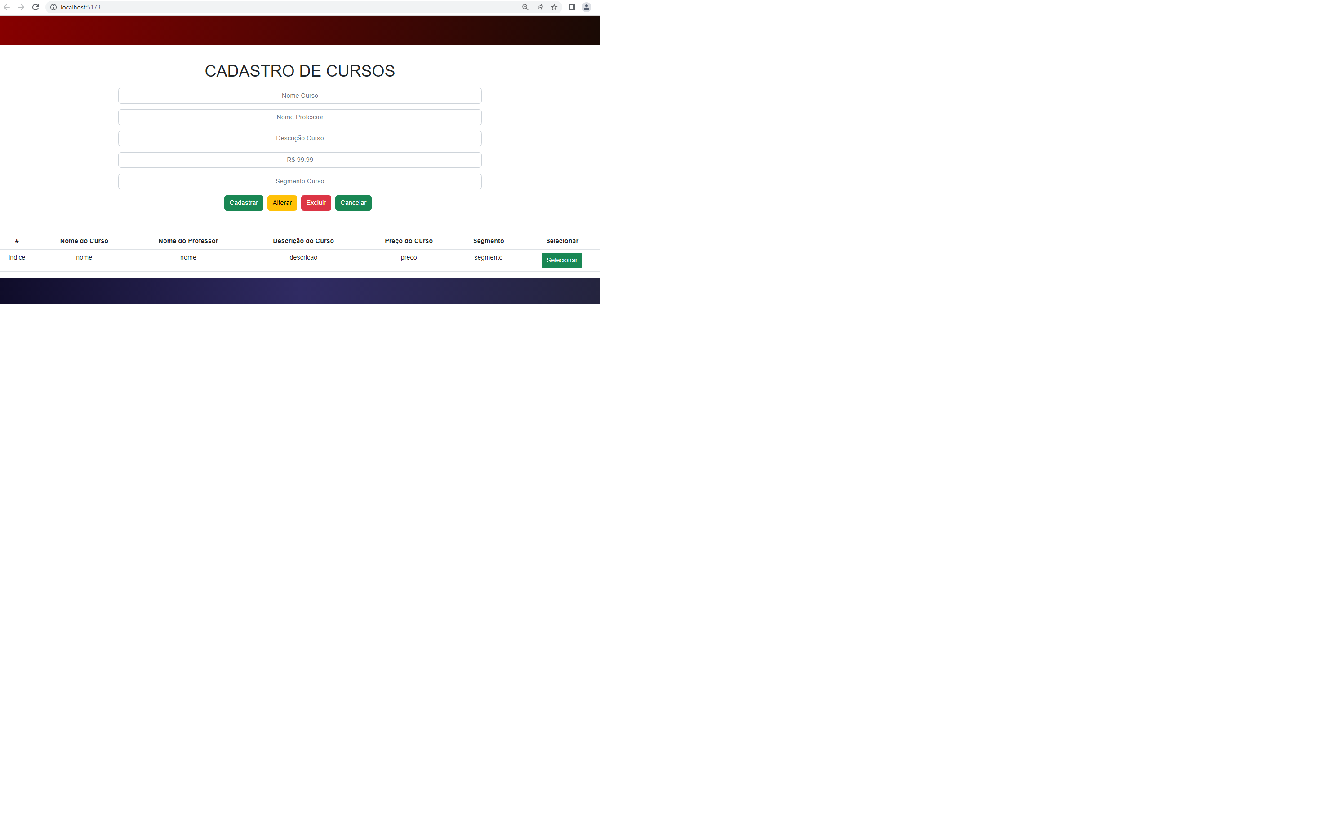
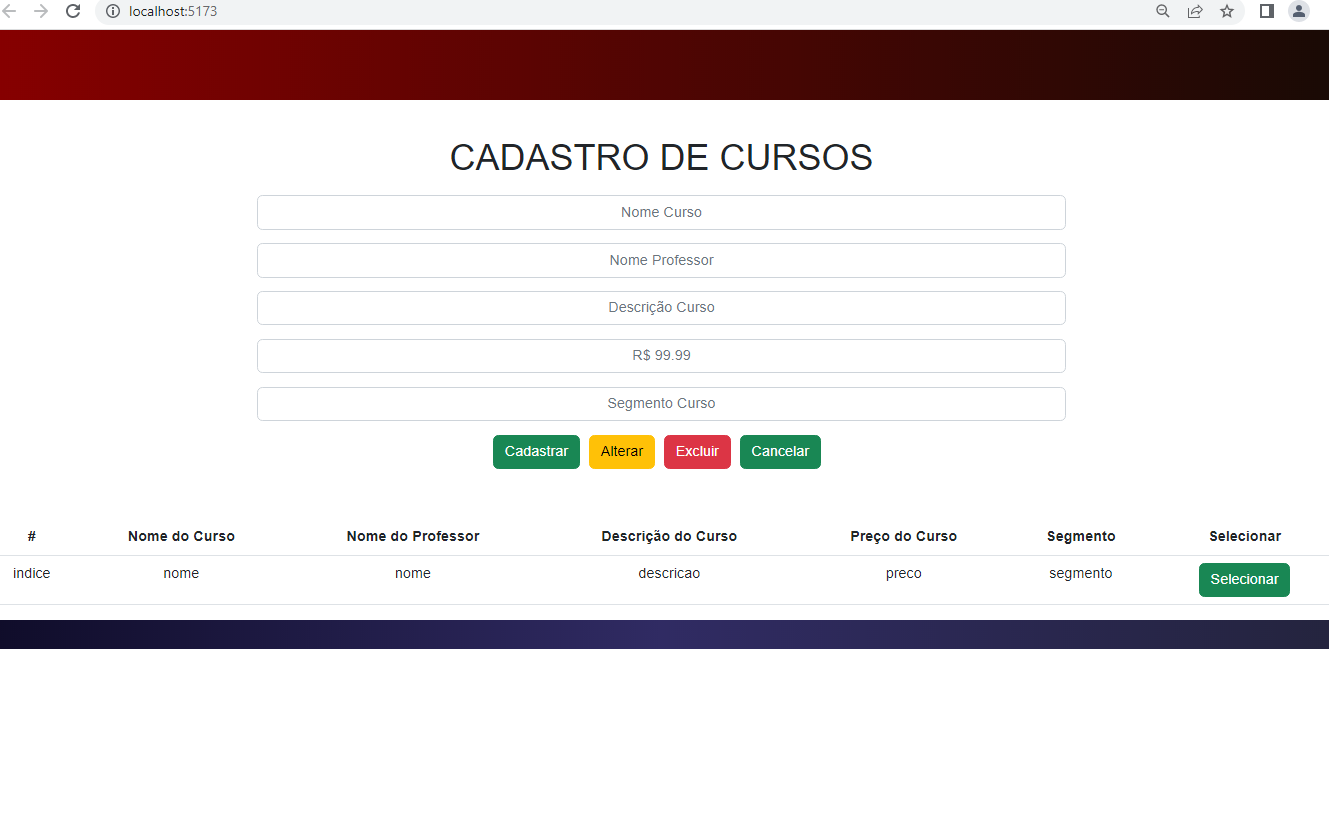
Atualizando projeto

diff --git a/ProjetosFullStack/desafio-certificado/frontenddesafio/src/component/Formalario.jsx b/ProjetosFullStack/desafio-certificado/frontenddesafio/src/component/Formalario.jsx
@@ -1,6 +1,6 @@
 import './Components.css';
 
-export default()=>{
+export default({botao})=>{
     return(
         <form>
             <h1>CADASTRO DE CURSOS</h1>    
@@ -10,10 +10,24 @@ export default()=>{
             <input type="text" name="" id="" placeholder="R$ 99.99" className="form-control"/>
             <input type="text" name="" id="" placeholder="Segmento Curso" className="form-control"/>
 
-            <input type="button" value="Cadastrar" className='btn btn-success'/>
-            <input type="button" value="Alterar" className='btn btn-warning'/>
-            <input type="button" value="Excluir" className='btn btn-danger'/>
-            <input type="button" value="Cancelar" className='btn btn-success'/>
+            {
+                botao
+
+                ?
+
+                <input type="button" value="Cadastrar" className='btn btn-success'/>
+                
+                :
+
+                <>
+    
+                    <input type="button" value="Alterar" className='btn btn-warning'/>
+                    <input type="button" value="Excluir" className='btn btn-danger'/>
+                    <input type="button" value="Cancelar" className='btn btn-info'/>
+                </>
+            }
+
+            
         </form>
     )
 }

diff --git a/ProjetosFullStack/desafio-certificado/frontenddesafio/src/App.jsx b/ProjetosFullStack/desafio-certificado/frontenddesafio/src/App.jsx
@@ -4,12 +4,17 @@ import Rodape from "./layout/Rodape";
 import './App.css';
 import Formalario from "./component/Formalario";
 import Tabela from "./component/Tabela";
+import { useState } from "react";
 
 export default()=>{
+
+    //Hook para exibicao de Botoes alternados.
+    const [botaoCadastro, setBotaoCadasrtro] = useState(true);
+
     return(
         <main className="corpo">
             <Cabecalho/>
-            <Formalario/>
+            <Formalario botao={botaoCadastro}/>
             <Tabela/>
             <Rodape/>
         </main>

diff --git a/ProjetosFullStack/desafio-certificado/frontenddesafio/src/layout/Leiaute.css b/ProjetosFullStack/desafio-certificado/frontenddesafio/src/layout/Leiaute.css
@@ -1,11 +1,11 @@
 .cabecalho{
     background-image: linear-gradient(to right, #870000, #190a05);
     width: 100%;
-    height: 100px;
+    height: 75px;
 }
 
 .rodape{
     background-image: linear-gradient(to right, #0f0c29, #302b63, #24243e);
     width: 100%;
-    height: 100px;
+    height: 80px;
 }
